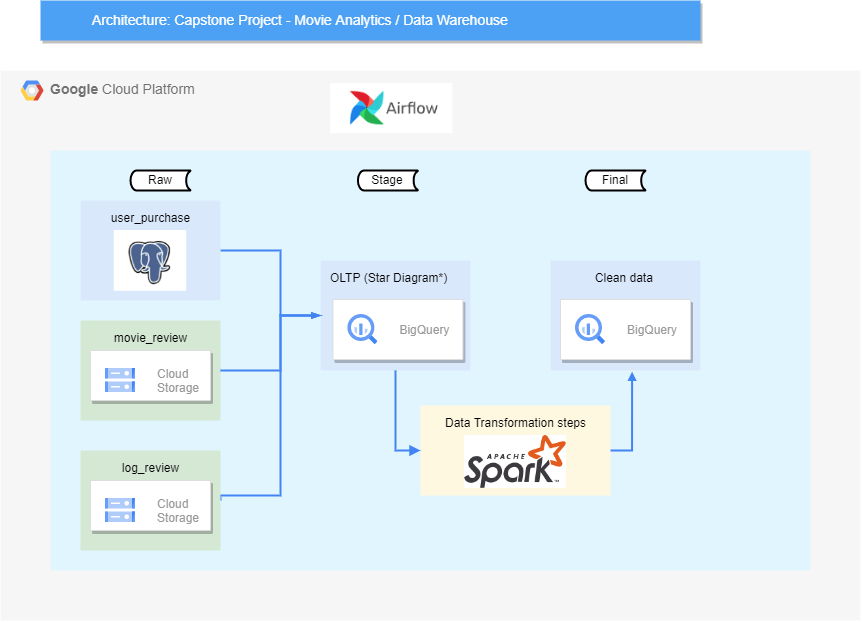
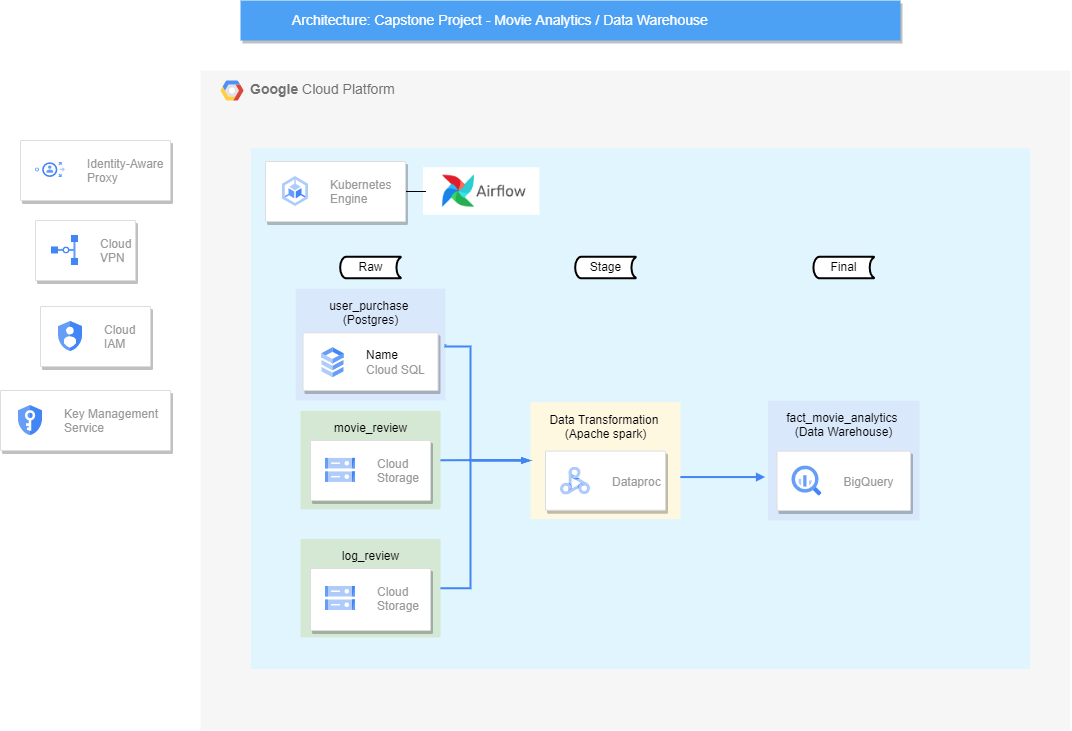
airflow dag to create a cluster of dataproc

diff --git a/airflow/dags/create_dataproc_job.py b/airflow/dags/create_dataproc_job.py
@@ -1,0 +1,108 @@
+import os
+from datetime import datetime
+
+from airflow import models
+from airflow.providers.google.cloud.operators.dataproc import (
+    DataprocCreateClusterOperator,
+    DataprocDeleteClusterOperator,
+    DataprocSubmitJobOperator,
+)
+from airflow.utils.trigger_rule import TriggerRule
+
+ENV_ID = "dev"
+DAG_ID = "dataproc_hive"
+PROJECT_ID = "dataengbootcamp"
+CLUSTER_NAME = f"cluster-dataproc-hive-{ENV_ID}"
+REGION = "us-central1"
+ZONE = "us-central1-a"
+
+BUCKET_NAME = "data-bootcamp-test-1-dev-data"
+INIT_FILE = "Data_proc_scripts/pip-install.sh"
+
+
+# Cluster definition
+# [START how_to_cloud_dataproc_create_cluster]
+
+
+CLUSTER_CONFIG = {
+    "master_config": {
+        "num_instances": 1,
+        "machine_type_uri": "n1-standard-4",
+        "disk_config": {"boot_disk_type": "pd-standard", "boot_disk_size_gb": 1024},
+    },
+    "worker_config": {
+        "num_instances": 2,
+        "machine_type_uri": "n1-standard-4",
+        "disk_config": {"boot_disk_type": "pd-standard", "boot_disk_size_gb": 1024},
+
+    },
+    "metadata": {
+        "PIP_PACKAGES": "pg8000 joblib sqlalchemy nltk "
+    },
+    "init_actions_uris": [
+        f"gs://{BUCKET_NAME}/{INIT_FILE}"
+    ]
+}
+
+TIMEOUT = {"seconds": 1 * 24 * 60 * 60}
+
+PYSPARK_JOB = {
+    "reference": {"project_id": PROJECT_ID},
+    "placement": {"cluster_name": CLUSTER_NAME},
+    "pyspark_job": {"main_python_file_uri": f"gs://{BUCKET_NAME}/{PYSPARK_FILE}"},
+}
+
+
+with models.DAG(
+    DAG_ID,
+    schedule_interval='@once',
+    start_date=datetime(2021, 1, 1),
+    catchup=False,
+    tags=["example", "dataproc"],
+) as dag:
+    # [START how_to_cloud_dataproc_create_cluster_operator]
+
+    create_cluster = DataprocCreateClusterOperator(
+        task_id="create_cluster",
+        project_id=PROJECT_ID,
+        cluster_config=CLUSTER_CONFIG,
+        region=REGION,
+        cluster_name=CLUSTER_NAME,
+
+    )
+    # [END how_to_cloud_dataproc_create_cluster_operator]
+
+    pyspark_task = DataprocSubmitJobOperator(
+        task_id="pyspark_task", job=PYSPARK_JOB, region=REGION, project_id=PROJECT_ID
+    )
+
+    # [START how_to_cloud_dataproc_delete_cluster_operator]
+    delete_cluster = DataprocDeleteClusterOperator(
+        task_id="delete_cluster",
+        project_id=PROJECT_ID,
+        cluster_name=CLUSTER_NAME,
+        region=REGION,
+    )
+    # [END how_to_cloud_dataproc_delete_cluster_operator]
+    delete_cluster.trigger_rule = TriggerRule.ALL_DONE
+
+    create_cluster >> pyspark_task >> delete_cluster
+
+    from tests.system.utils.watcher import watcher
+
+    # This test needs watcher in order to properly mark success/failure
+    # when "teardown" task with trigger rule is part of the DAG
+    list(dag.tasks) >> watcher()
+
+
+from tests.system.utils import get_test_run  # noqa: E402
+
+# Needed to run the example DAG with pytest (see: tests/system/README.md#run_via_pytest)
+
+test_run = get_test_run(dag)
+
+
+
+
+
+
